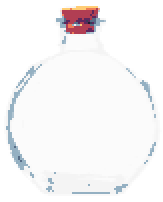
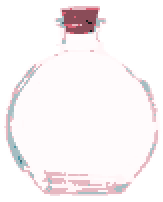
Friendship

diff --git a/Minigotchi.py b/Minigotchi.py
@@ -202,7 +202,7 @@ lajna.setText(f"{mon}")
 lajna.setStyleSheet("color: black; font-size: 16px;")
 lajna.adjustSize()
 lajna.move((600 - lajna.width()) // 2, 5)
- 
+
 def zmena():
     lajna.setText(f"{mon:g}")
     lajna.adjustSize()
@@ -241,7 +241,19 @@ HUBar.setStyleSheet("""
         background: transparent;
     }
 """)
- 
+FBar = QPushButton(novak)
+FBar.move(233,10)
+FBar.setIcon(QIcon("0F.png"))
+FBar.setAttribute(QtCore.Qt.WA_TransparentForMouseEvents)
+FBar.show()
+FBar.setFixedSize(60, 50)
+FBar.setIconSize(QSize(60, 50))
+FBar.setStyleSheet("""
+QPushButton {
+    border: none;
+    background: transparent;;
+}
+""")
 frigmenu = QPushButton(novak)
 frigmenu.setIcon(QIcon(r"Frigimenu.png"))
 frigmenu.move(67,-50)
@@ -376,12 +388,15 @@ def zneskodnit(enemy):
     enemy["widget"] = None
 
 def sezer(item):
-    global Hp, hlad, UIstate, Iterator, povaha, mon, prokleti
+    global Hp, hlad, UIstate, Iterator, povaha, mon, prokleti, Frenship, katana
     if item["count"] <= 0:
         return
     if item["name"] == "Hot Dawg":
         if hlad == 0 and not povaha == "Obžerství":
             return
+        if not Frenship == 7:
+                Frenship += 1
+                katana = True
         if not povaha == "Obžerství":
             if hlad - 2 == -1:
                 hlad = hlad - 1
@@ -415,6 +430,9 @@ def sezer(item):
             mon += 1
         else:
             return
+        if not Frenship == 7:
+                Frenship += 1
+                katana = True
     elif item["name"] == "Ibalgin":
         if len(nemoci) > 0:
             nemoci.pop()
@@ -439,6 +457,9 @@ def sezer(item):
         Hp = 1
         if len(nemoci) > 0:
             nemoci.pop()
+        if not Frenship == 7:
+                Frenship += 1
+                katana = True
     else:
         if hlad == 0 and not povaha == "Obžerství":
             return
@@ -446,6 +467,7 @@ def sezer(item):
         mon += 1
     item["count"] = item["count"] - 1
     HPBar.setIcon(QIcon(f"{Hp}.png"))
+    FBar.setIcon(QIcon(f"{Frenship}F.png"))
     if hlad < 6:
             if hlad > 0:
                 HUBar.setIcon(QIcon(f"{hlad+1}H.png"))
@@ -467,7 +489,7 @@ def chcipl():
     global povaha
     global Hp
     global Iterator
-    global ZStoggle, burt, agedotaznik, nemoci, lock, prokleti
+    global ZStoggle, burt, agedotaznik, nemoci, lock, prokleti, katana, Frenship
     hybaj.stop()
     ani.stop()
     spawner.stop()
@@ -475,6 +497,8 @@ def chcipl():
     cyklus.stop()
     ZStoggle = 0
     start = False
+    katana = False
+    Frenship = 0
     del nemoci[:]
     HPBar.setIcon(QIcon("5.png"))
     vajco.setIcon(QIcon("GunPoint.png"))
@@ -511,10 +535,10 @@ nabytkysp = [
 ]
 
 jidlicka = [
-    {"name": "Hot Dawg", "img": "Horkopes.png", "y": 211, "x": 240, "price": 50, "count": 0, "lable": "Hot Dog\n+2 HP"},
-    {"name": "Pizza", "img": "Pizza.png", "y": 211, "x": 340, "price": 40, "count": 0, "lable": "Pizza\n-1 HU\n+1 HP"},
+    {"name": "Hot Dawg", "img": "Horkopes.png", "y": 211, "x": 240, "price": 50, "count": 0, "lable": "Hot Dog\n-2 HU\n+1 FR"},
+    {"name": "Pizza", "img": "Pizza.png", "y": 211, "x": 340, "price": 34, "count": 0, "lable": "Pizza\n50% -1 HU\n50% +1 HP"},
     {"name": "Nugetka", "img": "Nugetky.png", "y": 140, "x": 340, "price": 30, "count": 2, "lable": "Nugetka\n-1 HU"},
-    {"name": "Bílý Monster", "img": "Monster.png", "y": 211, "x": 140, "price": 36, "count": 0, "lable": "Bílý Monster\n+1 HP"},
+    {"name": "Bílý Monster", "img": "Monster.png", "y": 211, "x": 140, "price": 36, "count": 0, "lable": "Bílý Monster\n+1 HP\n+1 FR"},
     {"name": "Ibalgin", "img": "Drogy.png", "y": 140, "x": 240, "price": 50, "count": 0, "lable": "Ibalgin\n-1 Nemoc"},
     {"name": "Teplá Voda", "img": "Vroci.png", "y": 140, "x": 140, "price": 20, "count": 1, "lable": "Teplá Voda\n50% -1 HU"}
 ]
@@ -532,7 +556,7 @@ special = [
     {"name": "Svěcená Voda", "img": "Holy.png", "y": 211, "x": 240, "price": 50, "count": 0, "lable": "Svěcená Voda\n-1 HU\n-1 Prokletí"},
     {"name": "Hlaveň Bohů", "img": "GunHoly.png", "y": 211, "x": 340, "price": 150, "count": 0, "lable": "Hlaveň Bohů\n+ Jeste Nevime"},
     {"name": "Nugetka", "img": "Nugetky.png", "y": 140, "x": 340, "price": 30, "count": 2, "lable": "Nugetka\n-1 HU"},
-    {"name": "Zlatý Hotdog", "img": "Godtog.png", "y": 211, "x": 140, "price": 90, "count": 0, "lable": "Zlatý Hot Dog\n-Max HU\n+Max HP\n-1 Nemoc"},
+    {"name": "Zlatý Hotdog", "img": "Godtog.png", "y": 211, "x": 140, "price": 90, "count": 0, "lable": "Zlatý Hot Dog\n-Max HU\n+Max HP\n-1 Nemoc\n+1 FR"},
     {"name": "Ibalgin", "img": "Drogy.png", "y": 140, "x": 240, "price": 50, "count": 0, "lable": "Ibalgin\n-1 Nemoc"},
     {"name": "Teplá Voda", "img": "Vroci.png", "y": 140, "x": 140, "price": 20, "count": 1, "lable": "Teplá Voda\n50% -1 HU"}
 ]
@@ -540,7 +564,7 @@ special = [
 unique = [
     {"name": "Svěcená Voda", "img": "Holy.png", "y": 150, "x": 140, "price": 50, "count": 0, "lable": "Svěcená Voda\n-1 HU\n-1 Prokletí"},
     {"name": "Hlaveň Bohů", "img": "GunHoly.png", "y": 150, "x": 240, "price": 150, "count": 0, "lable": "Hlaveň Bohů\n+ Jeste Nevime"},
-    {"name": "Zlatý Hotdog", "img": "Godtog.png", "y": 150, "x": 340, "price": 90, "count": 0, "lable": "Zlatý Hot Dog\n-Max HU\n+Max HP\n-1 Nemoc"}
+    {"name": "Zlatý Hotdog", "img": "Godtog.png", "y": 150, "x": 340, "price": 90, "count": 0, "lable": "Zlatý Hot Dog\n-Max HU\n+Max HP\n-1 Nemoc\n+1 FR"}
 ]
 
 multi = 1
@@ -787,6 +811,7 @@ def koupimesikocicku(item):
     update("Nakup")
     updateenvir()
 
+Frenship = 0
 for item in nabytky:
     btn = QPushButton(novak)
     btn.setIcon(QIcon(item["img"]))
@@ -1362,6 +1387,7 @@ def chud():
     lock = False
 
 konik = 10000
+katana = False
 
 def houpatrozkaz():
     minik.hide()
@@ -1384,13 +1410,17 @@ def day_night():
     global mon
     global multi
     global Iterator
-    global minarickabytost, prokleti, spim
+    global minarickabytost, prokleti, spim, Frenship, katana
     minik.show()
     if envir == "Hriste":
         navod("Exit")
     if stav == "den":
         kladno.stop()
         noc.show()
+        if not katana:
+            if not Frenship == 0:
+                Frenship -= 1
+        FBar.setIcon(QIcon(f"{Frenship}F.png"))
         stav = "noc"
         nocniteror = ["B", "BL", "E", "UM"]
         if prokleti:
@@ -1440,6 +1470,7 @@ def day_night():
         Iterator = 2
         Switcharoonie()
         stav = "den"
+        katana = False
         spawner.stop()
         novak.setStyleSheet(f"""
 #Min {{
